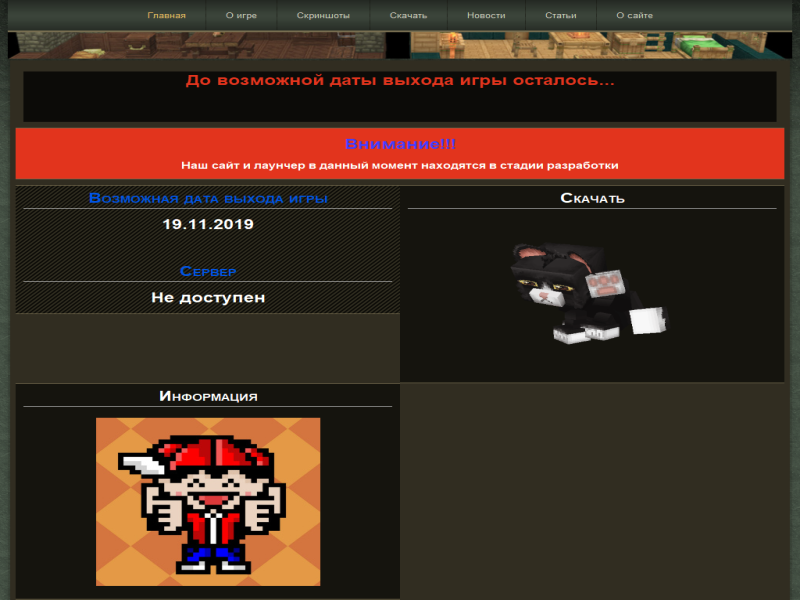
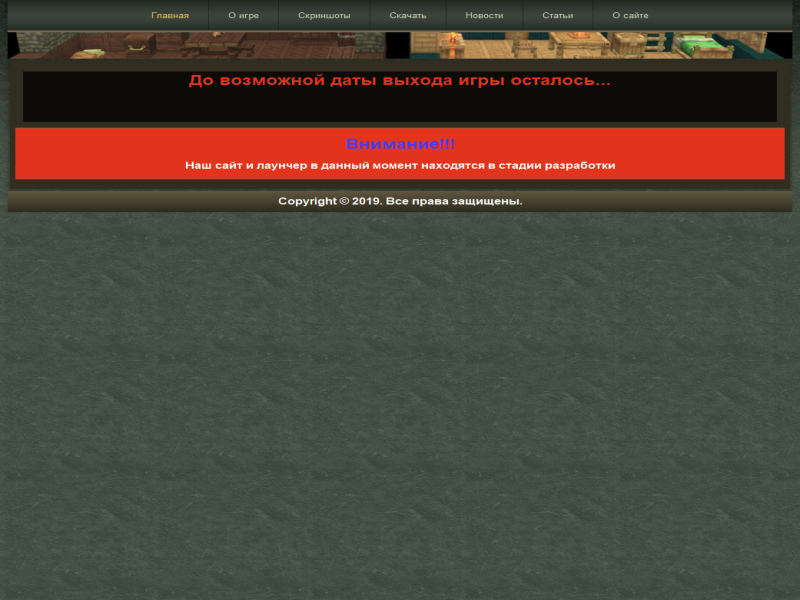
Обновлоение сайта

diff --git a/news.html b/news.html
@@ -17,8 +17,8 @@
 
 <style>.art-content .art-postcontent-0 .layout-item-0 { margin-bottom: 5px;  }
 .art-content .art-postcontent-0 .layout-item-1 { border-spacing: 10px 0px; border-collapse: separate;  }
-.art-content .art-postcontent-0 .layout-item-2 { border-top-style:solid;border-right-style:solid;border-bottom-style:solid;border-left-style:solid;border-top-width:1px;border-right-width:1px;border-bottom-width:1px;border-left-width:1px;border-top-color:#776D50;border-right-color:#776D50;border-bottom-color:#776D50;border-left-color:#776D50; background: #0C0B08; padding: 0px;  }
-.art-content .art-postcontent-0 .layout-item-3 { border-top-style:solid;border-right-style:solid;border-bottom-style:solid;border-left-style:solid;border-top-width:1px;border-right-width:1px;border-bottom-width:1px;border-left-width:1px;border-top-color:#776D50;border-right-color:#776D50;border-bottom-color:#776D50;border-left-color:#776D50; background: #0C0B08; padding-right: 10px;padding-left: 10px;  }
+.art-content .art-postcontent-0 .layout-item-2 { border-top-style:solid;border-right-style:solid;border-bottom-style:solid;border-left-style:solid;border-top-width:1px;border-right-width:1px;border-bottom-width:1px;border-left-width:1px;border-top-color:#776D50;border-right-color:#776D50;border-bottom-color:#776D50;border-left-color:#776D50; color: #E2341D; background: #0C0B08; padding: 0px;  }
+.art-content .art-postcontent-0 .layout-item-3 { border-top-style:solid;border-right-style:solid;border-bottom-style:solid;border-left-style:solid;border-top-width:1px;border-right-width:1px;border-bottom-width:1px;border-left-width:1px;border-top-color:#776D50;border-right-color:#776D50;border-bottom-color:#776D50;border-left-color:#776D50; color: #E2341D; background: #0C0B08; padding-right: 10px;padding-left: 10px;  }
 .art-content .art-postcontent-0 .layout-item-4 { margin-bottom: 0px;  }
 .ie7 .post .layout-cell {border:none !important; padding:0 !important; }
 .ie6 .post .layout-cell {border:none !important; padding:0 !important; }
@@ -53,21 +53,9 @@
 <div class="art-content-layout layout-item-1">
     <div class="art-content-layout-row">
     <div class="art-layout-cell layout-item-2" style="width: 33%" >
-        <p style="text-align: center;"><img width="305" height="172" alt="" class="art-lightbox" src="images/18.jpg" style="border-top-width: 0px; border-right-width: 0px; border-bottom-width: 0px; border-left-width: 0px; "><br></p>
+        <p style="text-align: center;"><img width="199" height="213" alt="" class="art-lightbox" src="images/DuBBVmoWoAAL7Eu.png" style="border-top-width: 0px; border-right-width: 0px; border-bottom-width: 0px; border-left-width: 0px; cursor: pointer;"><br></p>
     </div><div class="art-layout-cell layout-item-3" style="width: 67%" >
-        <p><a href="Blog%20Posts/005.html" style="font-size: 24px;"><span style="font-weight: bold; color: rgb(255, 0, 0); ">Невероятные вещи - 07.10.2019</span></a><br></p>
-        <p><span style="color: rgb(255, 255, 255); font-size: 16px; font-variant: small-caps; font-weight: bold; line-height: 28px;">Продолжаем нашу рублику</span></p>
-    </div>
-    </div>
-</div>
-</div>
-<div class="art-content-layout-wrapper layout-item-0">
-<div class="art-content-layout layout-item-1">
-    <div class="art-content-layout-row">
-    <div class="art-layout-cell layout-item-2" style="width: 33%" >
-        <p style="text-align: center;"><img width="199" height="213" alt="" class="art-lightbox" src="images/DuBBVmoWoAAL7Eu.png" style="border-top-width: 0px; border-right-width: 0px; border-bottom-width: 0px; border-left-width: 0px;"><br></p>
-    </div><div class="art-layout-cell layout-item-3" style="width: 67%" >
-        <p><a href="Blog%20Posts/004.html" style="font-size: 24px;"><span style="font-weight: bold; color: rgb(255, 0, 0); ">Метро будущего это реально - Новости недели</span></a><a href="Blog%20Posts/004.html"><br></a><span style="font-size: 24px; font-weight: bold;"></span></p>
+        <p><a href="Blog%20Posts/004.html" style="font-size: 24px; "><span style="font-weight: bold; color: rgb(255, 0, 0); ">Метро будущего это реально - Новости недели</span></a><a href="Blog%20Posts/004.html"><br></a><span style="font-size: 24px; font-weight: bold;"></span></p>
         <p><span style="color: rgb(255, 255, 255); font-size: 16px; font-variant: small-caps; font-weight: bold; line-height: 28px;">Свои префабы, свои структуры. И это можно сделать всё легко</span></p>
     </div>
     </div>
@@ -79,7 +67,7 @@
     <div class="art-layout-cell layout-item-2" style="width: 33%" >
         <p style="text-align: center;"><img width="138" height="170" alt="" class="art-lightbox" src="images/istockphoto-652271224-170x170-2.jpg"><br></p>
     </div><div class="art-layout-cell layout-item-3" style="width: 67%" >
-        <p><a href="Blog%20Posts/003.html" style="font-size: 24px;"><span style="font-weight: bold; color: rgb(255, 0, 0);">Сердце король - Что Hytale всасала в себе</span></a></p>
+        <p><a href="Blog%20Posts/003.html" style="font-size: 24px;"><span style="font-weight: bold; color: rgb(255, 0, 0); ">Сердце король - Что Hytale всасала в себе</span></a></p>
         <p><span style="color: rgb(255, 255, 255); font-size: 16px; font-variant: small-caps; font-weight: bold; line-height: 28px;">Давно известно что многие игры собирают в себя гемплеи других игр. Hytale не исключение.</span></p>
     </div>
     </div>

diff --git a/index.html b/index.html
@@ -16,13 +16,11 @@
 
 
 <style>.art-content .art-postcontent-0 .layout-item-0 { margin-right: 10px;margin-bottom: 10px;margin-left: 10px;  }
-.art-content .art-postcontent-0 .layout-item-1 { color: #E2341D; background: #0C0B08;  }
-.art-content .art-postcontent-0 .layout-item-2 { color: #E2341D; padding-right: 10px;padding-left: 10px;  }
+.art-content .art-postcontent-0 .layout-item-1 { background: #0C0B08;  }
+.art-content .art-postcontent-0 .layout-item-2 { padding-right: 10px;padding-left: 10px;  }
 .art-content .art-postcontent-0 .layout-item-3 { margin-bottom: 10px;  }
 .art-content .art-postcontent-0 .layout-item-4 { border-spacing: 10px 0px; border-collapse: separate;  }
-.art-content .art-postcontent-0 .layout-item-5 { border-top-style:solid;border-right-style:solid;border-bottom-style:solid;border-left-style:solid;border-top-width:1px;border-right-width:1px;border-bottom-width:1px;border-left-width:1px;border-top-color:#776D50;border-right-color:#776D50;border-bottom-color:#776D50;border-left-color:#776D50; color: #E2341D; background: #E2341D; padding-right: 10px;padding-left: 10px;  }
-.art-content .art-postcontent-0 .layout-item-6 { border-top-style:solid;border-right-style:solid;border-bottom-style:solid;border-left-style:solid;border-top-width:1px;border-right-width:1px;border-bottom-width:1px;border-left-width:1px;border-top-color:#776D50;border-right-color:#776D50;border-bottom-color:#776D50;border-left-color:#776D50; color: #E2341D; background: #0C0B08 url('images/6dacc.png') scroll; padding-right: 10px;padding-left: 10px;  }
-.art-content .art-postcontent-0 .layout-item-7 { border-top-style:solid;border-right-style:solid;border-bottom-style:solid;border-left-style:solid;border-top-width:1px;border-right-width:1px;border-bottom-width:1px;border-left-width:1px;border-top-color:#776D50;border-right-color:#776D50;border-bottom-color:#776D50;border-left-color:#776D50; color: #E2341D; background: #15140E; padding-right: 10px;padding-left: 10px;  }
+.art-content .art-postcontent-0 .layout-item-5 { border-top-style:solid;border-right-style:solid;border-bottom-style:solid;border-left-style:solid;border-top-width:1px;border-right-width:1px;border-bottom-width:1px;border-left-width:1px;border-top-color:#776D50;border-right-color:#776D50;border-bottom-color:#776D50;border-left-color:#776D50; background: #E2341D; padding-right: 10px;padding-left: 10px;  }
 .ie7 .post .layout-cell {border:none !important; padding:0 !important; }
 .ie6 .post .layout-cell {border:none !important; padding:0 !important; }
 
@@ -67,25 +65,6 @@
     <div class="art-layout-cell layout-item-5" style="width: 100%" >
         <p style="text-align: center;"><span style="font-size: 24px; font-weight: bold; color: #443DFF;">Внимание!!!</span></p>
         <p style="text-align: center;"><span style="color: rgb(255, 255, 255); font-weight: bold; font-size: 16px;">Наш сайт и лаунчер в данный момент находятся в стадии разработки</span></p>
-    </div>
-    </div>
-</div>
-</div>
-<div class="art-content-layout-wrapper layout-item-3">
-<div class="art-content-layout layout-item-4">
-    <div class="art-content-layout-row">
-    <div class="art-layout-cell layout-item-6" style="width: 33%" >
-        <h3 style="padding-bottom: 5px; border-bottom-width: 1px; border-bottom-style: solid; border-bottom-color: rgb(189, 189, 189);"><span style="color: rgb(0, 84, 229); font-size: 24px; font-weight: bold;">Возможная дата выхода игры</span><br></h3>
-        <p style="text-align: center;"><span style="color: rgb(255, 255, 255); font-size: 24px; font-weight: bold;">19.11.2019</span></p>
-        <p style="text-align: center;"><span style="color: rgb(255, 255, 255); font-size: 24px; font-weight: bold;"><br></span></p>
-        <h3 style="padding-bottom: 5px; border-bottom-width: 1px; border-bottom-style: solid; border-bottom-color: rgb(189, 189, 189);"><span style="font-size: 24px; font-weight: bold; color: rgb(0, 84, 229);">Сервер</span></h3>
-        <p style="text-align: center;"><span style="color: rgb(255, 255, 255); font-size: 24px; font-weight: bold;">Не доступен</span></p>
-    </div><div class="art-layout-cell layout-item-7" style="width: 34%" >
-        <h3 style="padding-bottom: 5px; border-bottom-width: 1px; border-bottom-style: solid; border-bottom-color: rgb(189, 189, 189);"><span style="color: rgb(255, 255, 255); font-size: 24px; font-weight: bold;">Скачать</span></h3>
-        <p style="text-align: center;"><a href="down.html"><img width="296" height="256" alt="" src="images/5c116cf1a8abd90012df93f2_fungif_3___cute_cat.gif" style="border-top-width: 0px; border-right-width: 0px; border-bottom-width: 0px; border-left-width: 0px; " class=""></a></p>
-    </div><div class="art-layout-cell layout-item-7" style="width: 33%" >
-        <h3 style="padding-bottom: 5px; border-bottom-width: 1px; border-bottom-style: solid; border-bottom-color: rgb(189, 189, 189);"><span style="color: rgb(255, 255, 255); font-size: 24px; font-weight: bold;">Информация</span></h3>
-        <p style="text-align: center;"><a href="info.html"><img width="287" height="287" alt="" src="images/unnamed-2.jpg" style="border-top-width: 0px; border-right-width: 0px; border-bottom-width: 0px; border-left-width: 0px;" class=""></a><br></p>
     </div>
     </div>
 </div>
